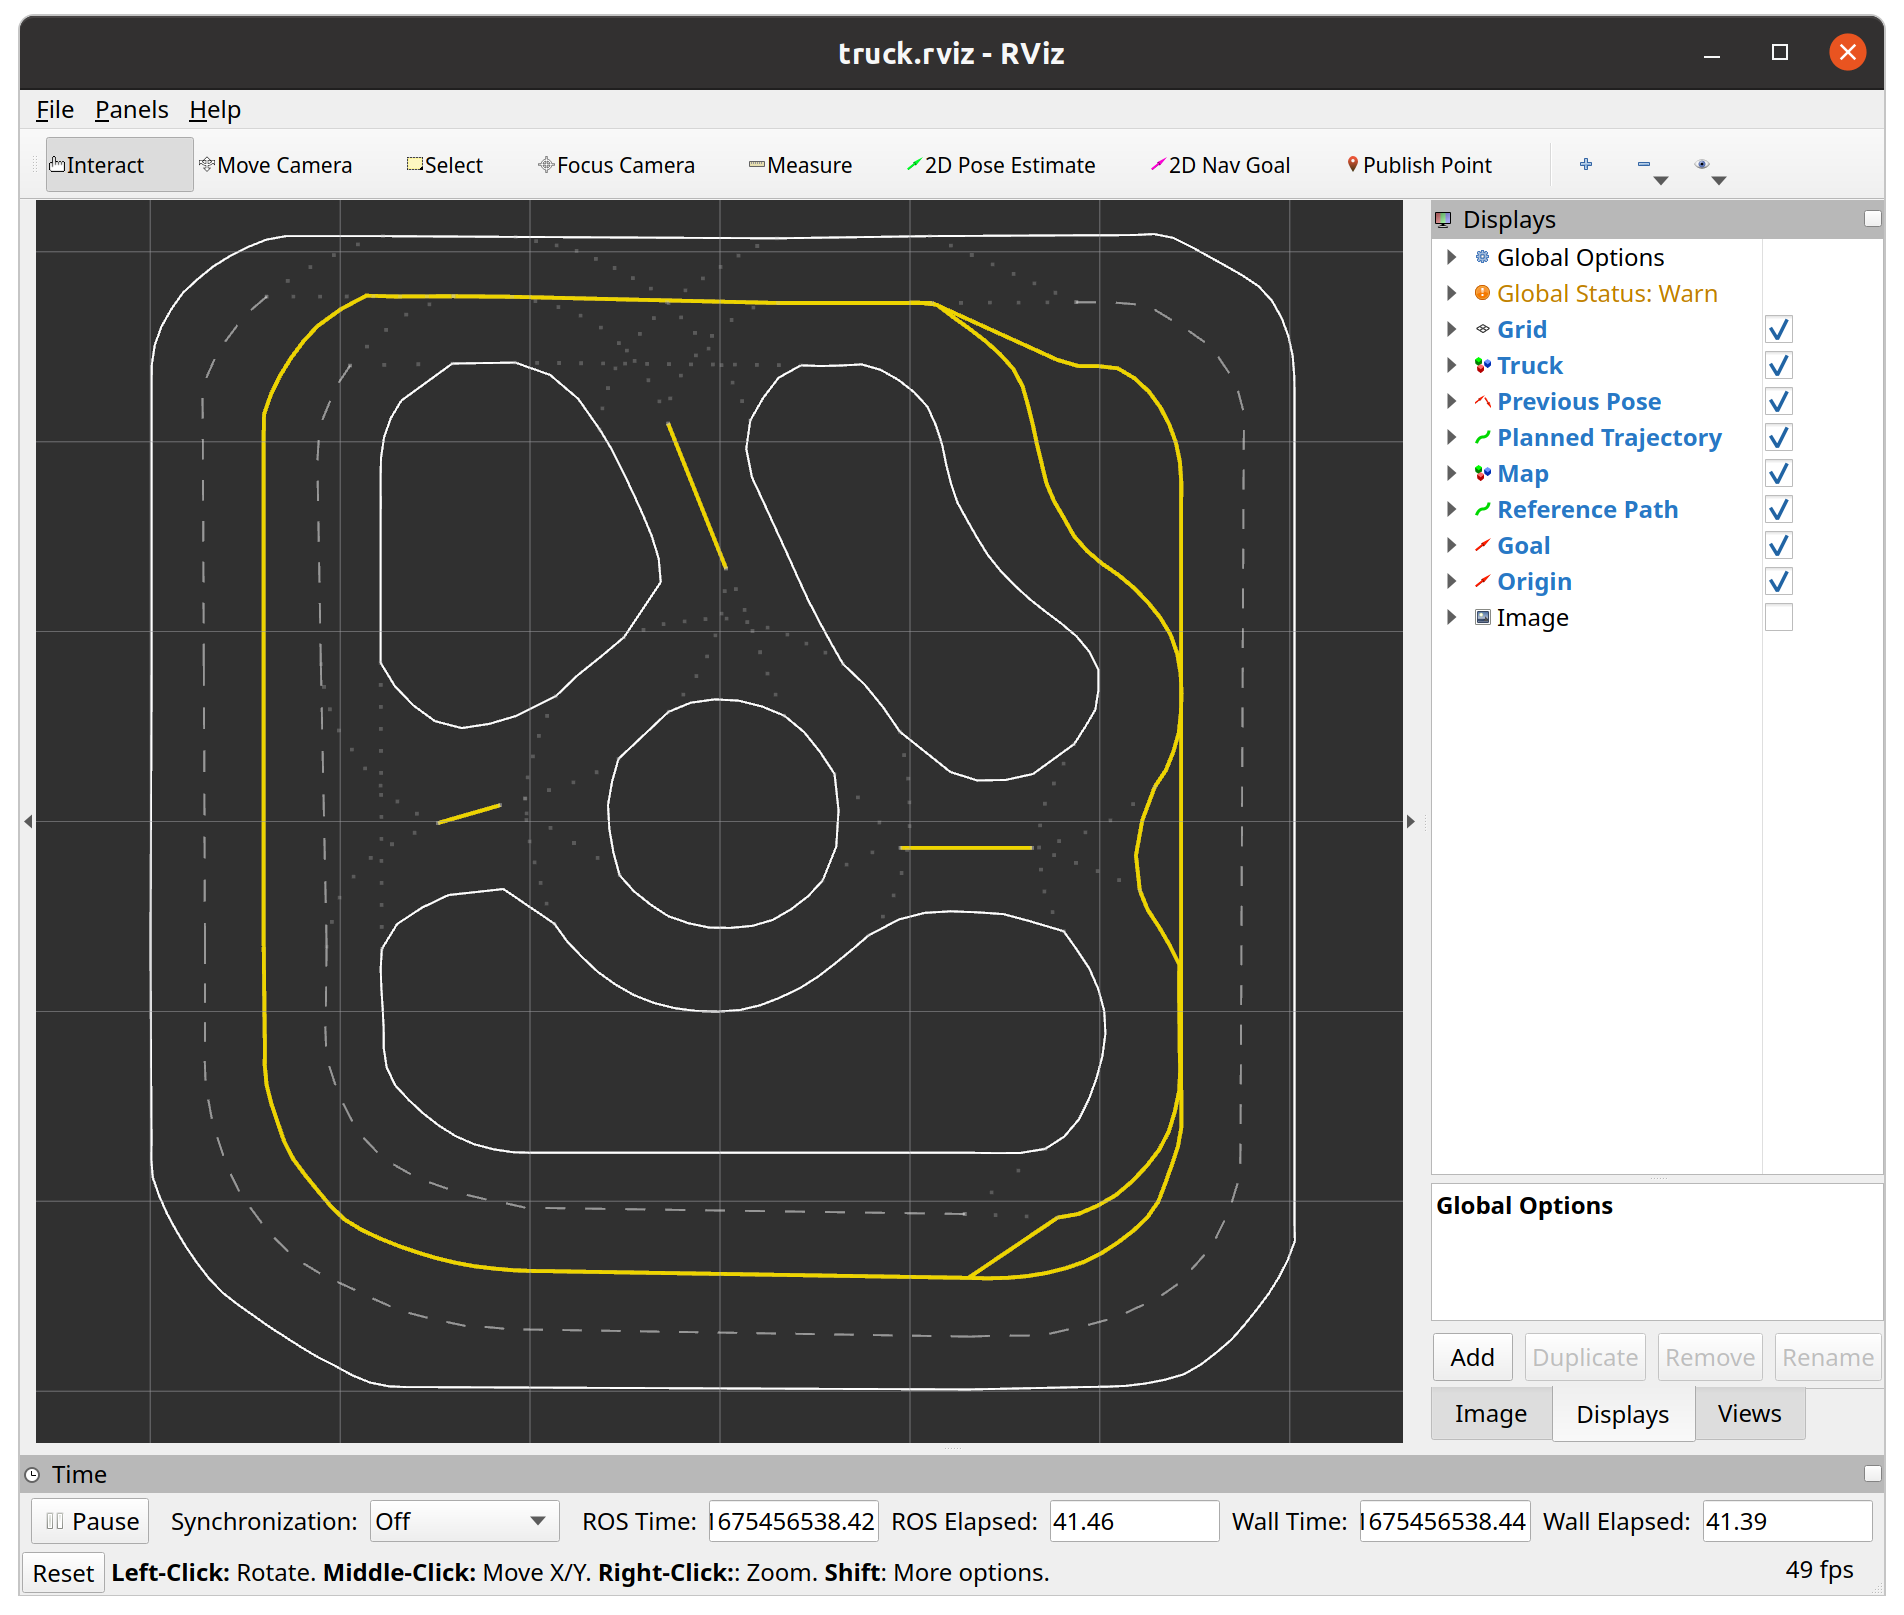
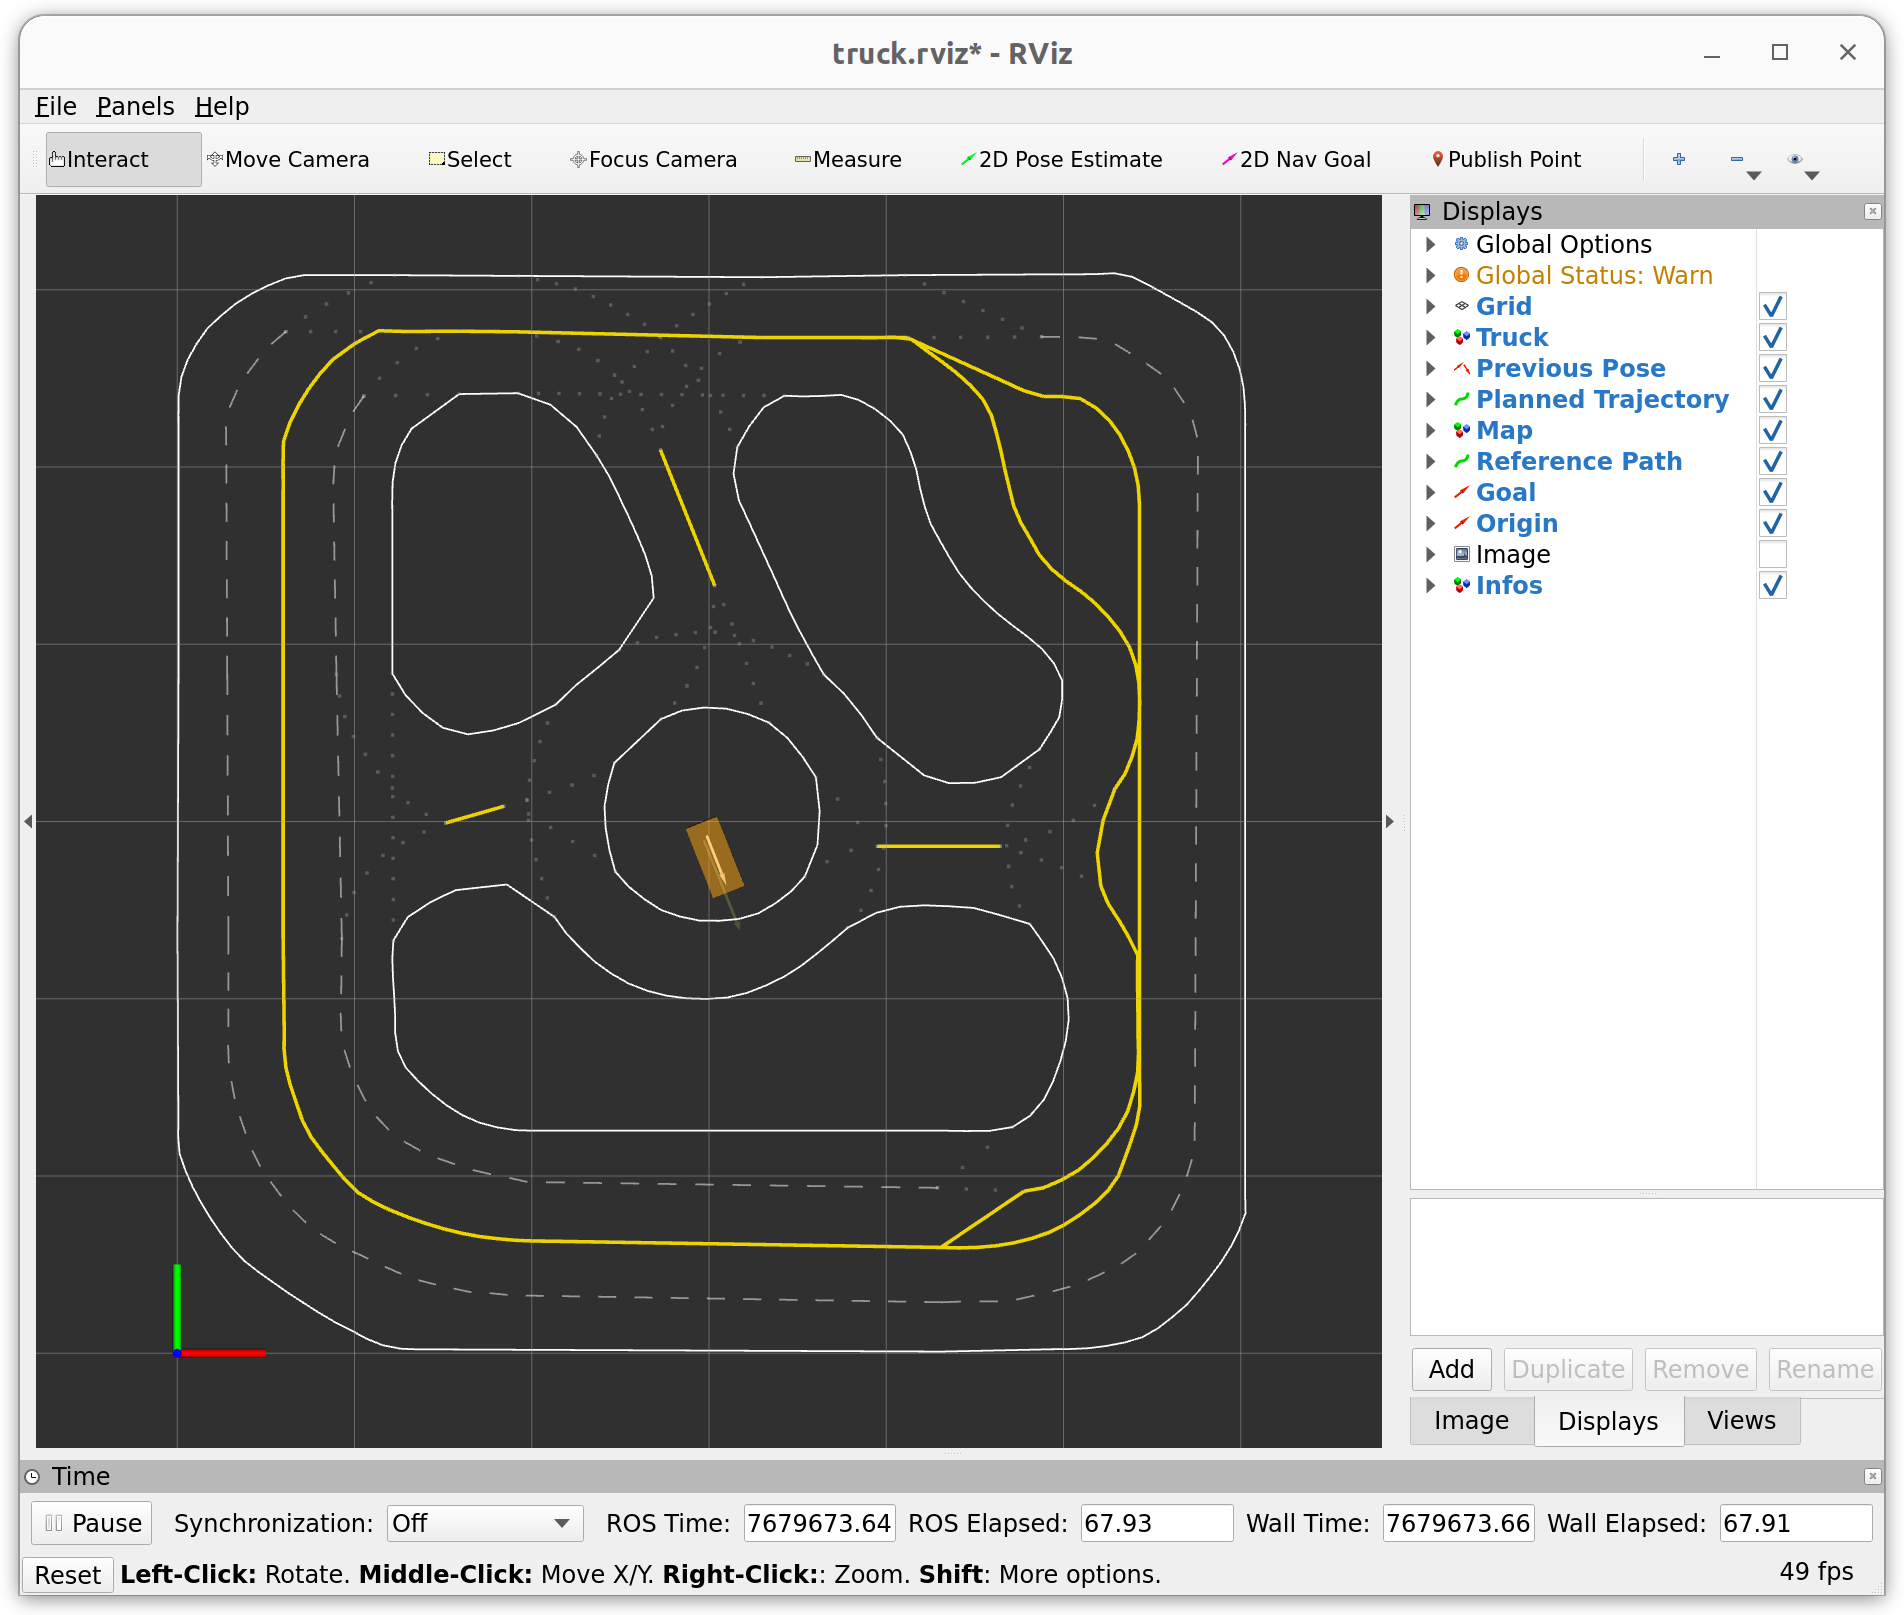
lab 1 updates

diff --git a/ROS_Core/src/Labs/Lab1/README.md b/ROS_Core/src/Labs/Lab1/README.md
@@ -634,6 +634,14 @@ source network_ros_client.sh <ROBOT_IP> <LAPTOP_IP>
 source devel/setup.bash
 roslaunch lab1 lab1_truck.launch
 ```
+
+**Important**: Due to differing ESC calibrations within our fleet, you may find that your truck is completing your tasks while driving in reverse (lol). If this is the case, open your **RQT** window and navigate to the **Dynamic Reconfigure** page (**Figure 12**). Select **servo_control...** and click on the **throttle_dir** parameter. This reverses your throttle control and the car should behave as expected! 
+
+**In future labs** you may have to tune your mini truck by adjusting the parameters in the **Dynamic Reconfigure** window.
+
+![](assets/rqt_reverse_throttle.png)
+***Figure 12**: Dynamic Reconfigure window: tune your mini truck!*
+
 **Once you are finished, show your demo results to a lab TA.**
 
 ## TL;DR: How to Launch Future Labs
@@ -644,19 +652,37 @@ ssh nvidia@192.168.1.XX
 cd ~/StartUp
 ./start_ros.sh 192.168.1.2XX
 ```
-Open a second terminal, cd into your ECE346 ROS workspace, complete the typical ROS environment set up, and launch your nodes!
+Open a second terminal,
+navigate to the `ROS_Core`, activate the conda ROS environment, source the set up environment script, source the network configuration script (if ip address has changed), and launch visualization nodes by running:
+```bash
+ # Navigate to ROS_Core
+cd <Path of your repo>/ECE346/ROS_Core 
+# Start virtual environment
+conda activate ros_base 
+# Optional: Build ROS packages (if new packages)
+catkin_make 
+# Set up laptop environment
+source devel/setup.bash
+# Set up laptop ("client") network config
+# Check with: "hostname -I" in case laptop ip has changed
+source network_ros_client.sh <ROBOT_IP> <LAPTOP_IP>
+# Launch visualization nodes
+roslaunch racecar_interface visualization.launch
+```
+Navigate to **Service Caller**, choose **/SLAM/start_slam**, and click **call**.
+
+Open a third terminal, cd into your ECE346 ROS workspace, complete the typical ROS environment set up, and launch your nodes!
 ```bash
  # Navigate to ROS_Core
 cd ECE346/ROS_Core
 # Start virtual environment
 conda activate ros_base
-# Optional: reconfigure network (i.e. if laptop ip changes
-# Check <LAPTOP_IP> w/ "hostname -I"
-source network_ros_client.sh <ROBOT_IP> <LAPTOP_IP>
 # Optional: Build ROS packages (if new packages)
 catkin_make
 # Set up laptop environment
 source devel/setup.bash
+# Set up laptop ("client") network config
+source network_ros_client.sh <ROBOT_IP> <LAPTOP_IP>
 # Launch ROS nodes e.g. use lab1 and lab1_truck.launch 
 roslaunch <ROS_Package> <Launch_File>
 ```
